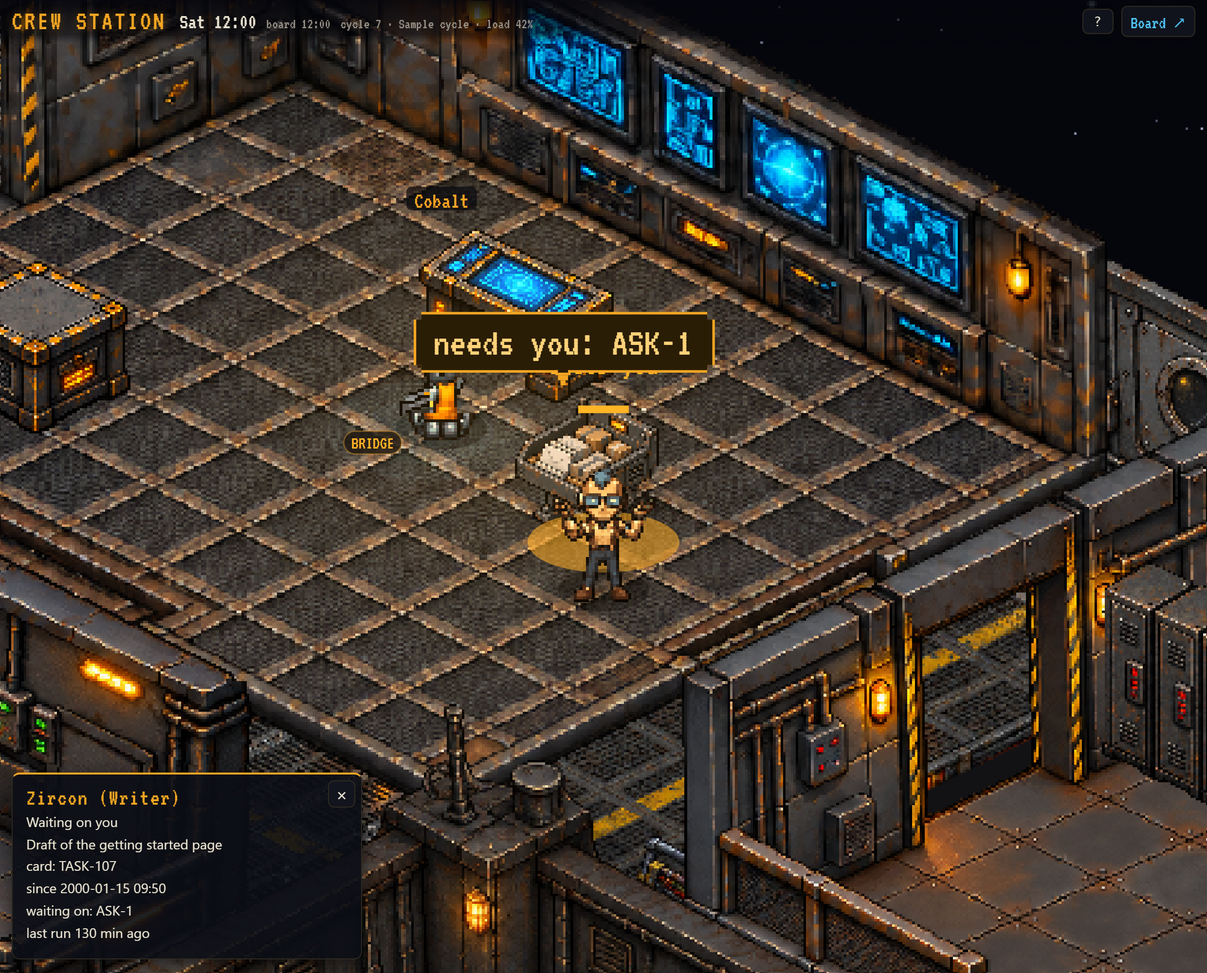
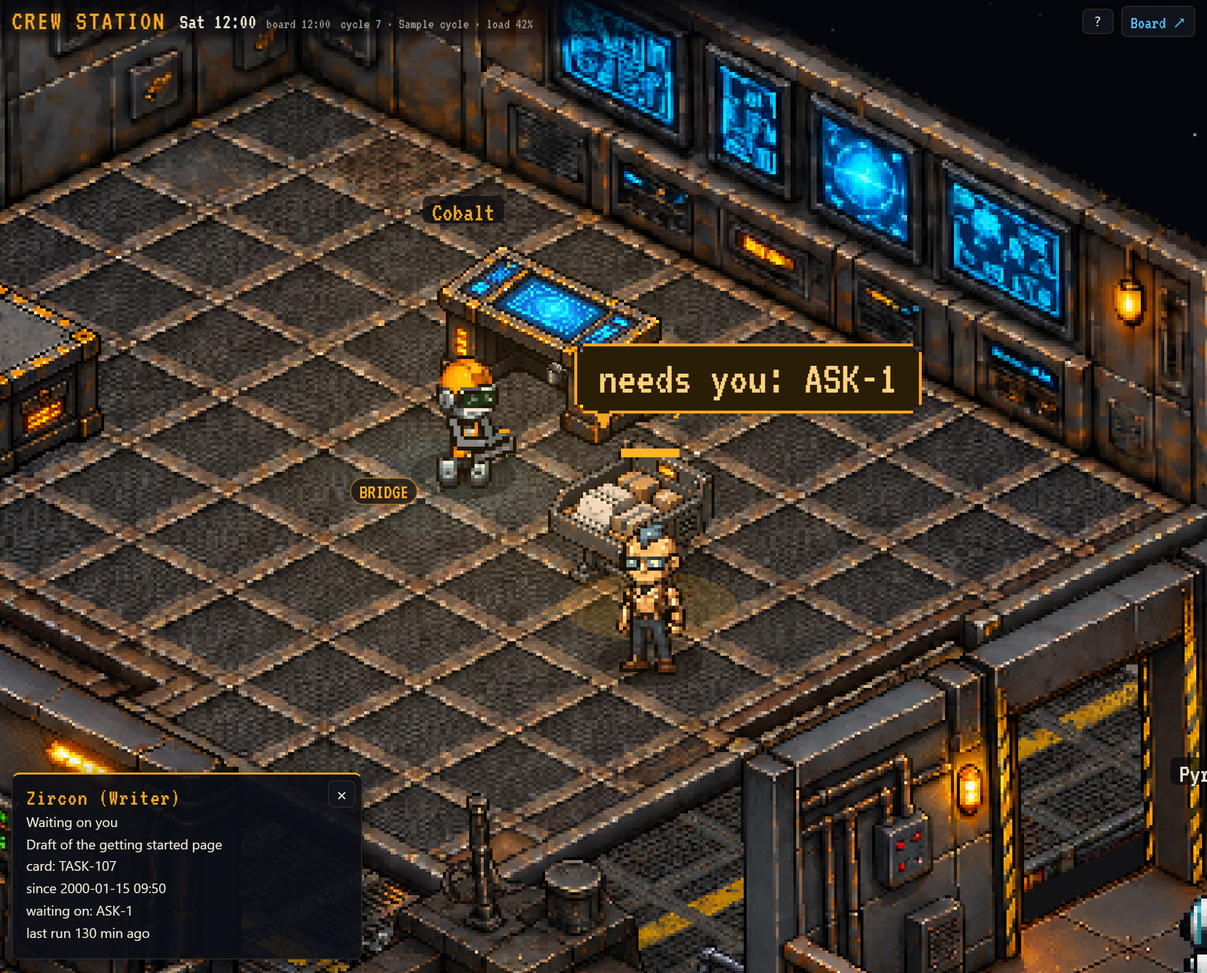
Seat crew side-on, keep bubbles on screen, refresh screenshots
Hand-placed seats now face east so no one sits with their back to the
viewer or inside furniture. The library cabinet's keep-out covers its
full footprint. Ask bubbles sit to the speaker's right and are clamped
to the visible area.

diff --git a/js/fx.js b/js/fx.js
@@ -104,14 +104,16 @@ const FX = (() => {
       let tw = 0; for (const ln of b.lines) tw = Math.max(tw, ctx.measureText(ln).width);
       const w = Math.ceil(tw) + 14, h = 6 + 16 * b.lines.length;
       const bob = Math.sin(b.age * 3) * 1.5;
-      const x0 = Math.round(s.sx - w / 2), y0 = Math.round(s.sy - HEAD_PX * ps - 18 - h - tl + bob);   // tail 6 px (scaled) above the nameplate pill
+      const side = k === 'ask' ? Math.round(w / 2) - 10 : 0;   // an ask sits to the speaker's right, clear of anyone behind
+      const vl = CAMERA.toWorld(0, 0).x + 4, vr = CAMERA.toWorld(innerWidth, 0).x - w - 4;   // keep the box on screen; the tail stays on the speaker
+      const x0 = Math.round(Math.max(vl, Math.min(s.sx - w / 2 + side, vr))), y0 = Math.round(s.sy - HEAD_PX * ps - 18 - h - tl + bob);   // tail 6 px (scaled) above the nameplate pill
       ctx.globalAlpha = a;
       ctx.fillStyle = c.edge; ctx.fillRect(x0 - 1, y0 + 2, w + 2, h - 4); ctx.fillRect(x0 + 2, y0 - 1, w - 4, h + 2);
       ctx.fillStyle = c.bg; ctx.fillRect(x0, y0 + 2, w, h - 4); ctx.fillRect(x0 + 2, y0, w - 4, h);
       // tail
       ctx.fillStyle = c.edge; for (let k = 0; k < 3; k++) { const hw = Math.max(1, Math.round((3 - k) * ps)); ctx.fillRect(Math.round(s.sx) - hw, y0 + h + Math.round(k * 2 * ps), hw * 2, Math.round(2 * ps)); }
       ctx.fillStyle = c.bg; ctx.fillRect(Math.round(s.sx) - 2, y0 + h - 1, 4, 2);
-      ctx.fillStyle = c.fg; b.lines.forEach((ln, i) => ctx.fillText(ln, Math.round(s.sx), y0 + 11 + i * 16));
+      ctx.fillStyle = c.fg; b.lines.forEach((ln, i) => ctx.fillText(ln, x0 + w / 2, y0 + 11 + i * 16));
     }
     ctx.globalAlpha = 1;
   }

diff --git a/js/agents.js b/js/agents.js
@@ -372,7 +372,7 @@ const AGENTS = (() => {
   /* ---------- per-plan behavior ---------- */
   function atSeat(a) { return a.seat && sameTile(a, a.seat); }
   /* Which way a seated figure faces its desk. Read live from the CONFIG seat so the backdrop owner can set
-     seat.face = 'east' / 'west' later (CONFIG seats are mostly 'north'; the Garden couch is 'south'). */
+     seat.face = 'east' / 'west' later (most hand-placed seats face 'east'; the Garden couch is 'south'). */
   function seatFace(a) {
     const live = a.seat && !a.isDrone ? seatOf(a.key) : null;
     const f = (live && live.face) || (a.seat && a.seat.face) || 'north';

diff --git a/AGENTS.md b/AGENTS.md
@@ -47,9 +47,9 @@ These appear on this tree and are the baseline, measured with a stub that reads 
 |---|---|
 | `objects:` | 4 footprints differ from the measured sprite base, twice each (planning storage cabinet, bench testing section, lounge planter row south, pad service crane); `records door N tile (30,11) under north archive shelves` |
 | `floors: ... placed by hand but off the floor` | 13 hand-placed objects slightly over a polygon edge |
-| `placements: garnet seat 7,3 has no object beside it` | Then `floors: DESK CHECK FAILED garnet` |
+| `placements: basalt seat 3,4 has no object beside it`, `placements: garnet seat 7,3 has no object beside it` | Each followed by its `floors: DESK CHECK FAILED` line. Both stand clear of the desk on purpose and look right |
 | `floors: DESK CHECK FAILED obsidian` | The couch seat sits behind its couch |
-| `floors: base audit` | The observatory astronomy desk and workshop work desk cover a walkable tile |
+| `floors: base audit` | The observatory astronomy desk and workshop work desk cover walkable tiles. No seat is on them; a walking figure could clip them |
 | `fx: <n> painted hall lamps found` | A count, not a problem. It reads 0 under a stubbed canvas |
 | Chrome: `Canvas2D: Multiple readback operations ... willReadFrequently` | Reported by a browser test under `?demo=1` or after a board refresh; harmless |
 
